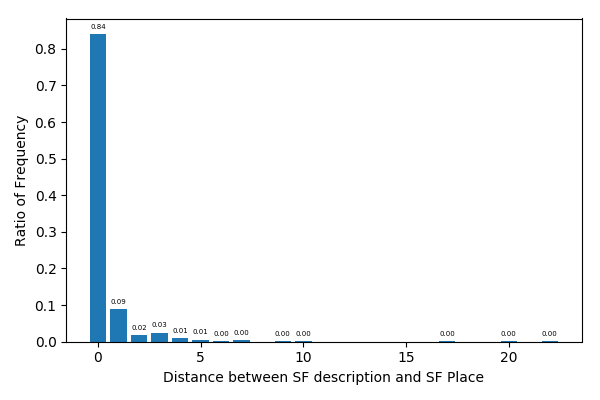
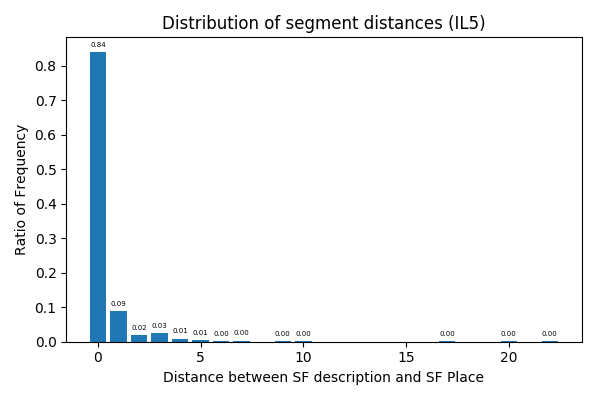
Add figure titles

diff --git a/get_loc_stats.py b/get_loc_stats.py
@@ -67,7 +67,7 @@ def add_value_labels(ax, spacing=3):
             fontsize=5)
 
 def print_stats(sfs, docs, ignore_doc_no_sf=False, span_to_entity_id={}, entities={}, mention_selection='closest',
-                outfile=sys.stdout, outpath=''):
+                outfile=sys.stdout, outpath='', lang=''):
     if len(sfs) > 0 and not isinstance(sfs[0], SF):
         sfs = [SF.from_dict(sf) for sf in sfs]
     docs_by_ids = docs
@@ -155,6 +155,7 @@ def print_stats(sfs, docs, ignore_doc_no_sf=False, span_to_entity_id={}, entitie
     # plt.scatter(seg_nums, loc_seg_nums, c=counts)
     plt.ylabel('Segment ID of the Place')
     plt.xlabel('Segment ID of the SF description')
+    plt.title('SF trigger vs SF Place location ({})'.format(lang))
     plt.tight_layout()
     plt.savefig(scatter_figpath)
 
@@ -169,6 +170,7 @@ def print_stats(sfs, docs, ignore_doc_no_sf=False, span_to_entity_id={}, entitie
     plt.bar(dists, dist_counts)
     plt.ylabel('Ratio of Frequency')
     plt.xlabel('Distance between SF description and SF Place')
+    plt.title('Distribution of segment distances ({})'.format(lang))
     plt.tight_layout()
     ax = fig.axes[0]
     add_value_labels(ax)
@@ -199,6 +201,8 @@ def main():
     parser.add_argument('--ignore_doc_no_sf', action='store_true', help='To ignore documents without SFs')
     parser.add_argument('--mention_selection', choices=['original', 'closest'], default='closest',
                         help='How to select the mention associated with the SF Place when there are multiple mentions')
+    parser.add_argument('--lang',
+                        help='The language code')
     args = parser.parse_args()
 
     docs = read_ltf_files(args.ltf_dir, progress_bar=False, outtype='dict')
@@ -219,11 +223,11 @@ def main():
         with open(args.out_file, 'w') as outfile:
             print_stats(sfs, docs, args.ignore_doc_no_sf, span_to_entity_id=span_to_entity_id,
                         mention_selection=args.mention_selection, entities=entities, outfile=outfile,
-                        outpath=args.out_file)
+                        outpath=args.out_file, lang=args.lang)
     else:
         print_stats(sfs, docs, args.ignore_doc_no_sf, span_to_entity_id=span_to_entity_id,
                     mention_selection=args.mention_selection, entities=entities, outfile=outfile,
-                    outpath=args.out_file)
+                    outpath=args.out_file, lang=args.lang)
 
 if __name__ == '__main__':
     main()
